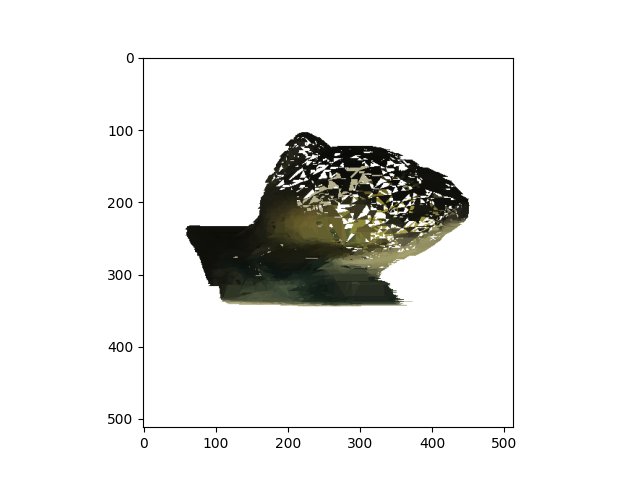
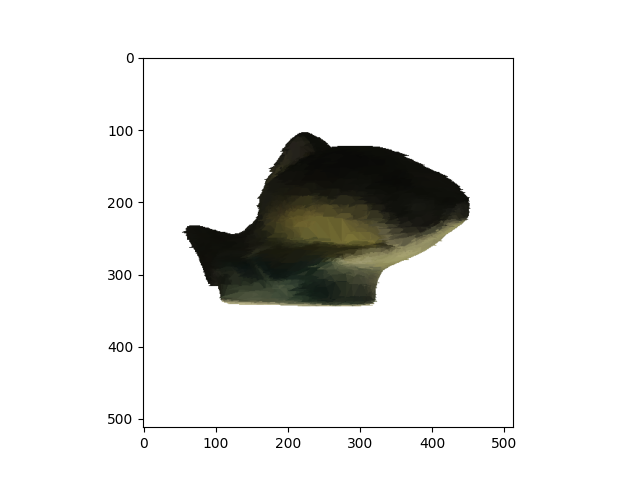
Flat procedure ready

Changed region(s): [[0.4062, 0.2812, 0.75, 0.6562], [0.3125, 0.4688, 0.4062, 0.5]]

diff --git a/shade_triangle.py b/shade_triangle.py
@@ -11,7 +11,6 @@ def shade_triangle(img, verts2d, vcolors, shade_t):
     shade_t: the painting method (flat or gouraud)
     """
     # the value to be returned - the canvas
-    Y = img
 
     global right_color
 
@@ -37,24 +36,17 @@ def shade_triangle(img, verts2d, vcolors, shade_t):
 
     # find the active peaks
     activ_peaks = []
-    activ_acmes = []
     peaks_y_max = []
-    middle_pick = 0
+    middle_peak = []
     for i in range(3):
         # store the active peaks for ymin
         if verts2d[i][1] == ymin:
             activ_peaks.append(verts2d[i])
-            if i not in activ_acmes:
-                activ_acmes.append(i)
-            if ((i-1)%3) not in activ_acmes:
-                activ_acmes.append(i)
         # store the peaks for ymax
         elif verts2d[i][1] == ymax:
             peaks_y_max.append(verts2d[i])
         else:
             middle_peak = verts2d[i]
-
-
 
 
     # _____*****if we are using flat method*****_____
@@ -64,20 +56,21 @@ def shade_triangle(img, verts2d, vcolors, shade_t):
         for i in range(3):
             i_color_palette = [vcolors[0][i], vcolors[1][i], vcolors[2][i]]
             color[i] = statistics.mean(i_color_palette)
+            color = np.array(color)
 
         # if the triangle is a single point
         if (xmin == xmax) and (ymin == ymax):
-            Y[ymin][xmin] = color
+            img[ymin][xmin] = color
 
         # if the triangle is a horizontal line
         elif ymin == ymax:
             for x in range(xmin, xmax+1):
-                Y[ymin][x] = color
+                img[ymin][x] = color
 
         # if the triangle is a vertical line
         elif xmin == xmax:
             for y in range(ymin, ymax+1):
-                Y[y][xmin] = color
+                img[y][xmin] = color
 
         # if the triangle has a lower horizontal edge
         elif len(activ_peaks) == 2:
@@ -87,7 +80,7 @@ def shade_triangle(img, verts2d, vcolors, shade_t):
             right_slope = (activ_peaks[1][0] - peaks_y_max[0][0])/(ymin - ymax)
             for y in range(ymin, ymax + 1):
                 for x in range(int(xmin), int(xmax + 1)):
-                    Y[y][x] = color
+                    img[y][x] = color
                 xmin = xmin + left_slope
                 xmax = xmax + right_slope
 
@@ -98,57 +91,24 @@ def shade_triangle(img, verts2d, vcolors, shade_t):
             right_slope = (peaks_y_max[1][0] - activ_peaks[0][0])/(ymax - ymin)
             for y in range(ymin, ymax + 1):
                 for x in range(int(xmin), int(xmax + 1)):
-                    Y[y][x] = color
+                    img[y][x] = color
                 xmin = xmin + left_slope
                 xmax = xmax + right_slope
 
         # if the triangle is just any other triangle
+        # split it in two triangles and call the shade_triangle (itself)
+        # note: we give the same color to each three peaks now because the mean value of the three colors will be the same color again
         else:
-            # if the middle point is from the left side
-            if middle_peak[0] == xmin:
-                slope_left_1 = (xmin - activ_peaks[0][0])/(middle_peak[1] - ymin)
-                slope_left_2 = (peaks_y_max[0][0] - xmin)/(ymax - middle_peak[1])
-                slope_right = (peaks_y_max[0][0] - activ_peaks[0][0])/(ymax - ymin)
-                x_bias_1 = activ_peaks[0][0]
-                # the list of the first scan line
-                activ_peaks.append(activ_peaks[0])
-                for y in range(ymin, int(middle_peak[1])):
-                    for x in range(int(activ_peaks[0][0]), int(activ_peaks[1][0] + 1)):
-                        Y[y][x] = color
-                    new_x_left = x_bias_1 + (y + 1 - ymin) * slope_left_1
-                    new_x_right = x_bias_1 + (y + 1 - ymin) * slope_right
-                    activ_peaks[0] = [new_x_left, y + 1]
-                    activ_peaks[1] = [new_x_right, y + 1]
-                for y in range(int(middle_peak[1]), ymax + 1):
-                    for x in range(int(activ_peaks[0][0]), int(activ_peaks[1][0]) + 1):
-                        Y[y][x] = color
-                    new_x_left = middle_peak[0] + round((y + 1 - ymin) * slope_left_2)
-                    new_x_right = x_bias_1 + round((y + 1 - ymin) * slope_right)
-                    activ_peaks[0] = [new_x_left, y + 1]
-                    activ_peaks[1] = [new_x_right, y + 1]
-
-            # if the middle point is from the right side
-            if middle_peak[0] == xmax:
-                slope_right_1 = (middle_peak[0] - activ_peaks[0][0]) / (middle_peak[1] - ymin)
-                slope_right_2 = (peaks_y_max[0][0] - middle_peak[0]) / (ymax - middle_peak[1])
-                slope_left = (peaks_y_max[0][0] - activ_peaks[0][0]) / (ymax - ymin)
-                x_bias = activ_peaks[0][0]
-                # the list of the first scan line
-                activ_peaks.append(activ_peaks[0])
-                for y in range(ymin, int(middle_peak[1])):
-                    for x in range(int(activ_peaks[0][0]), int(activ_peaks[1][0] + 1)):
-                        Y[y][x] = color
-                    new_x_left = x_bias + (y + 1 - ymin) * slope_left
-                    new_x_right = peaks_y_max[0][1] + (y + 1 - ymin) * slope_right_1
-                    activ_peaks[0] = [new_x_left, y + 1]
-                    activ_peaks[1] = [new_x_right, y + 1]
-                for y in range(int(middle_peak[1]), ymax + 1):
-                    for x in range(int(activ_peaks[0][0]), int(activ_peaks[1][0]) + 1):
-                        Y[y][x] = color
-                    new_x_left = x_bias + (y + 1 - ymin) * slope_left
-                    new_x_right = middle_peak[0] + (y + 1 - ymin) * slope_right_2
-                    activ_peaks[0] = [new_x_left, y + 1]
-                    activ_peaks[1] = [new_x_right, y + 1]
+            slope = (ymax-ymin)/(peaks_y_max[0][0]-activ_peaks[0][0])
+            x_new = peaks_y_max[0][0] + (middle_peak[1] - ymax)/slope
+            colors = np.array([color, color, color])
+            new_peak = [x_new, middle_peak[1]]
+            triangle1 = np.array([peaks_y_max[0], middle_peak, new_peak])
+            triangle2 = np.array([middle_peak, new_peak, activ_peaks[0]])
+            # fill first triangle
+            shade_triangle(img, triangle1, colors, shade_t)
+            # fill second triangle
+            shade_triangle(img, triangle2, colors, shade_t)
 
 
 
@@ -326,4 +286,4 @@ def shade_triangle(img, verts2d, vcolors, shade_t):
         #             activ_peaks_min[0] = [new_x_left, y + 1]
         #             activ_peaks_min[1] = [new_x_right, y + 1]
 
-    return Y
+    return img
